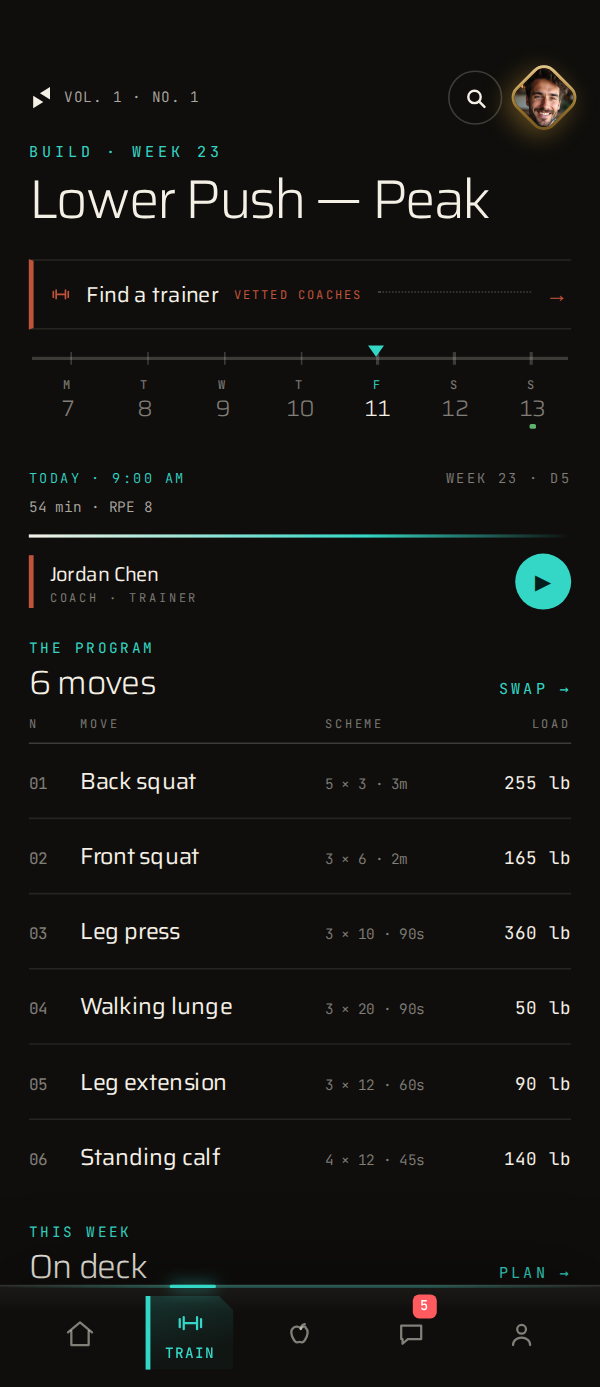
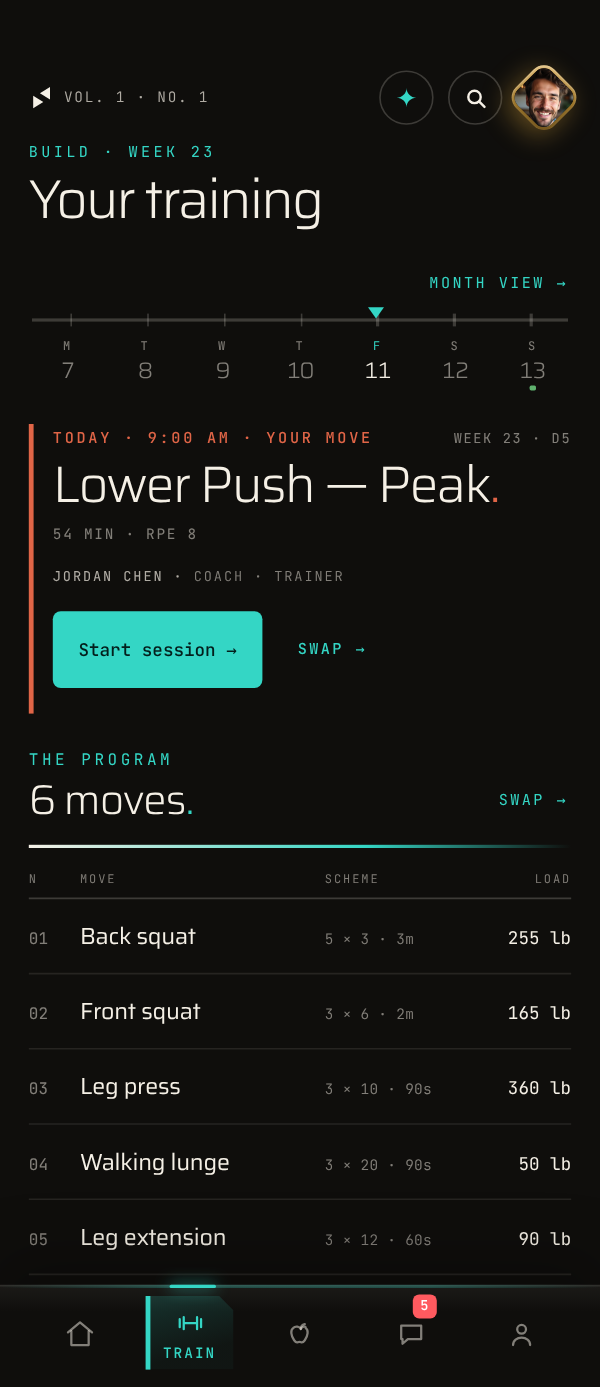
Website: the app captures re-shot after the Focus redesign
The owner: "and app snapeshots ... on website". An audit found Home, Eat, Train
and Grocery out of date after the 10-11 Focus redesign, Chat still showing the
Support segment removed on 10-08, and the profile climb's flag in the old
colour. Every capture on the homepage and Get App is re-shot from the app's
signed-out preview by the documented method: 375x867 at 1.6 (600x1387), clock
pinned to Fri 2026-09-11 09:30 New York, is-native-app.

Homepage: the four "01 · The loop" cards and the journey rail use new -v2 JPEGs
(the -v1 files are removed; nothing else references them). Each ring is
re-measured off the new capture's own elements, and tests/homepage-climb's
pixel check passes on every outline. The Eat window opens on the next-stop card
so "Lunch." is not cut. The Wall ring now takes the NEW PR chip, headline and
record together, because the avatar no longer overlaps the chip.

Get App: the ten 600x1387 captures are replaced in place with ?v=20261014. The
copy follows the screens: Home's next stop instead of the calorie slate,
Grocery's shop by aisle or meal, Train's coach and Start button, and the
Community line without Support (and without the "+3 banked" the new Habits frame
does not show).

Claude-Session: https://claude.ai/code/session_01MetSckzpWkaD8g3wB8xVRf

diff --git a/public/newdesign/GetApp.html b/public/newdesign/GetApp.html
@@ -304,11 +304,11 @@
           <div class="time">06:45</div>
           <div class="eb">WAKE &#183; HOME</div>
           <h2>Today, at a glance.</h2>
-          <p>The Shape Daily: calendar, calorie ledger, what is left to log, who is on the air. Skim it in five seconds, dive in if you want.</p>
-          <div class="num"><b>&#9632;</b> 1568 / 2100 kcal &#183; check-in due</div>
+          <p>The Shape Daily: the station, your week, the check-in and the next stop on your day. Skim it in five seconds, dive in if you want.</p>
+          <div class="num"><b>&#9632;</b> Next stop &#183; Lower Push &#8212; Peak &#183; check-in due</div>
           <span class="exlabel">Example member</span>
         </div>
-        <div class="beat-ph"><div class="ph" style="width:272px"><div class="ph-scr"><img src="/newdesign/getapp-home-v5.png?v=20260917" width="600" height="1387" alt="The app&rsquo;s Home screen: the day&rsquo;s calorie ledger against target, the week strip, the check-in due and today&rsquo;s slate" decoding="async"></div></div></div>
+        <div class="beat-ph"><div class="ph" style="width:272px"><div class="ph-scr"><img src="/newdesign/getapp-home-v5.png?v=20261014" width="600" height="1387" alt="The app&rsquo;s Home screen: Shape Radio, the week strip, the check-in due and the next stop on the day" decoding="async"></div></div></div>
       </section>
       <section class="beat" style="--sky:rgba(255,180,84,.08)">
         <div class="beat-copy">
@@ -319,7 +319,7 @@
           <div class="num"><b>&#9632;</b> 532 kcal left &#183; protein 118 / 165</div>
           <span class="exlabel">Example member</span>
         </div>
-        <div class="beat-ph"><div class="ph" style="width:272px"><div class="ph-scr"><img src="/newdesign/getapp-nutri-v3.png?v=20260910" width="600" height="1387" alt="The app&rsquo;s Eat screen: the day&rsquo;s meals with the calorie and protein ledger running against target" loading="lazy" decoding="async"></div></div></div>
+        <div class="beat-ph"><div class="ph" style="width:272px"><div class="ph-scr"><img src="/newdesign/getapp-nutri-v3.png?v=20261014" width="600" height="1387" alt="The app&rsquo;s Eat screen: the next meal with Log it and Swap, then the fuel left today by calories and macro" loading="lazy" decoding="async"></div></div></div>
       </section>
       <section class="beat" style="--sky:rgba(52,214,197,.10)">
         <div class="beat-copy">
@@ -330,7 +330,7 @@
           <div class="num"><b>&#9632;</b> 6 moves &#183; 54 min &#183; RPE 8</div>
           <span class="exlabel">Example member</span>
         </div>
-        <div class="beat-ph"><div class="ph" style="width:272px"><div class="ph-scr"><img src="/newdesign/getapp-train-v3.png?v=20260910" width="600" height="1387" alt="The app&rsquo;s Train screen: today&rsquo;s session listed move by move with sets, loads and the trainer&rsquo;s cues" loading="lazy" decoding="async"></div></div></div>
+        <div class="beat-ph"><div class="ph" style="width:272px"><div class="ph-scr"><img src="/newdesign/getapp-train-v3.png?v=20261014" width="600" height="1387" alt="The app&rsquo;s Train screen: today&rsquo;s session with its coach and a Start button, then the program move by move with sets and loads" loading="lazy" decoding="async"></div></div></div>
       </section>
       <section class="beat" style="--sky:rgba(52,214,197,.08)">
         <div class="beat-copy">
@@ -341,18 +341,18 @@
           <div class="num"><b>&#9632;</b> 245 lb &#183; new PR</div>
           <span class="exlabel">Example member</span>
         </div>
-        <div class="beat-ph"><div class="ph" style="width:272px"><div class="ph-scr"><img src="/newdesign/getapp-wall-v1.png?v=20260911b" width="600" height="1387" alt="The app&rsquo;s Wall: a personal best as a record plate, with the session&rsquo;s stats, heart-rate zones and trace beneath it" loading="lazy" decoding="async"></div></div></div>
+        <div class="beat-ph"><div class="ph" style="width:272px"><div class="ph-scr"><img src="/newdesign/getapp-wall-v1.png?v=20261014" width="600" height="1387" alt="The app&rsquo;s Wall: a personal best as a record plate, with the session&rsquo;s stats, heart-rate zones and trace beneath it" loading="lazy" decoding="async"></div></div></div>
       </section>
       <section class="beat" style="--sky:rgba(238,243,240,.05)">
         <div class="beat-copy">
           <div class="time">13:00</div>
           <div class="eb">SHOP &#183; GROCERY</div>
           <h2>A list that builds itself.</h2>
-          <p>Organized by aisle with a live running cost. Coach swaps land inline; one tap sends the whole list to Instacart.</p>
+          <p>Shop it by aisle or by meal, with a live running cost. Coach swaps land inline; one tap sends the whole list to Instacart.</p>
           <div class="num"><b>&#9632;</b> 89 items &#183; ~$44 to go</div>
           <span class="exlabel">Example member</span>
         </div>
-        <div class="beat-ph"><div class="ph" style="width:272px"><div class="ph-scr"><img src="/newdesign/getapp-grocery-v2.png?v=20260910" width="600" height="1387" alt="The app&rsquo;s grocery list, collapsed by aisle with a running cost and a send-to-Instacart action" loading="lazy" decoding="async"></div></div></div>
+        <div class="beat-ph"><div class="ph" style="width:272px"><div class="ph-scr"><img src="/newdesign/getapp-grocery-v2.png?v=20261014" width="600" height="1387" alt="The app&rsquo;s grocery list, shopped by aisle with the aisles stepped across the top, a running cost and Produce open" loading="lazy" decoding="async"></div></div></div>
       </section>
       <section class="beat" style="--sky:rgba(52,214,197,.12)">
         <div class="beat-copy">
@@ -363,7 +363,7 @@
           <div class="num"><b>&#9632;</b> Live &#183; Shape Sets &#183; Nora</div>
           <span class="exlabel">Example member</span>
         </div>
-        <div class="beat-ph"><div class="ph" style="width:272px"><div class="ph-scr"><img src="/newdesign/getapp-radio-v3.png?v=20260917" width="600" height="1387" alt="The app&rsquo;s Radio page: the Signal Field drawing the station&rsquo;s live spectrum over a field of dots" loading="lazy" decoding="async"></div></div></div>
+        <div class="beat-ph"><div class="ph" style="width:272px"><div class="ph-scr"><img src="/newdesign/getapp-radio-v3.png?v=20261014" width="600" height="1387" alt="The app&rsquo;s Radio page: the Signal Field drawing the station&rsquo;s live spectrum over a field of dots" loading="lazy" decoding="async"></div></div></div>
       </section>
       <section class="beat" style="--sky:rgba(120,110,255,.10)">
         <div class="beat-copy">
@@ -371,10 +371,10 @@
           <div class="eb">THE ROOM &#183; COMMUNITY + HABITS</div>
           <h2>The social side of strong. Small things, tracked.</h2>
           <p>See who is training right now, ask the room a question, answer someone else&rsquo;s. A members&rsquo; feed, channels for your people, and a thread straight to your coach. Tap to log a habit, earn Shape Score for every check, and see the last seven days as a grid.</p>
-          <div class="num"><b>&#9632;</b> Feed &#183; Team &#183; Channels &#183; Support &#183; +3 banked today</div>
+          <div class="num"><b>&#9632;</b> Feed &#183; Team &#183; Channels &#183; 9 pts on the table today</div>
           <span class="exlabel">Example member</span>
         </div>
-        <div class="beat-ph"><div class="ph" style="width:182px"><div class="ph-scr"><img src="/newdesign/getapp-community-v2.png?v=20260911" width="600" height="1387" alt="The app&rsquo;s Community feed: members&rsquo; posts with who is online along the top" loading="lazy" decoding="async"></div></div><div class="ph" style="width:182px"><div class="ph-scr"><img src="/newdesign/getapp-habits-v1.png?v=20260910" width="600" height="1387" alt="The app&rsquo;s Habits ledger: each habit tapped to log, with the last seven days as a grid" loading="lazy" decoding="async"></div></div></div>
+        <div class="beat-ph"><div class="ph" style="width:182px"><div class="ph-scr"><img src="/newdesign/getapp-community-v2.png?v=20261014" width="600" height="1387" alt="The app&rsquo;s Community feed: members&rsquo; posts with who is online along the top" loading="lazy" decoding="async"></div></div><div class="ph" style="width:182px"><div class="ph-scr"><img src="/newdesign/getapp-habits-v1.png?v=20261014" width="600" height="1387" alt="The app&rsquo;s Habits ledger: each habit tapped to log, with the last seven days as a grid" loading="lazy" decoding="async"></div></div></div>
       </section>
       <section class="beat" style="--sky:rgba(230,195,115,.10)">
         <div class="beat-copy">
@@ -385,7 +385,7 @@
           <div class="num"><b>&#9632;</b> 1,284 pts &#183; Tempo &#183; 43% of the way to Form</div>
           <span class="exlabel">Example member</span>
         </div>
-        <div class="beat-ph"><div class="ph" style="width:182px"><div class="ph-scr"><img src="/newdesign/getapp-score-v3.png?v=20260910" width="600" height="1387" alt="The app&rsquo;s Shape Score: the points total, the tier held and the ladder above it" loading="lazy" decoding="async"></div></div><div class="ph" style="width:182px"><div class="ph-scr"><img src="/newdesign/getapp-profile-v2.png?v=20260911" width="600" height="1387" alt="The app&rsquo;s member profile: the ascent drawn over the cover photo, with PRs and playlists below" loading="lazy" decoding="async"></div></div></div>
+        <div class="beat-ph"><div class="ph" style="width:182px"><div class="ph-scr"><img src="/newdesign/getapp-score-v3.png?v=20261014" width="600" height="1387" alt="The app&rsquo;s Shape Score: the points total, the tier held and the ladder above it" loading="lazy" decoding="async"></div></div><div class="ph" style="width:182px"><div class="ph-scr"><img src="/newdesign/getapp-profile-v2.png?v=20261014" width="600" height="1387" alt="The app&rsquo;s member profile: the ascent drawn over the cover photo, with PRs and playlists below" loading="lazy" decoding="async"></div></div></div>
       </section>
     </div>
 

diff --git a/public/newdesign/index.html b/public/newdesign/index.html
@@ -935,19 +935,19 @@
     <div class="mo-grid" id="mo-grid">
       <div class="mo on">
         <div class="eb">Eat · the menu</div><h3>The ledger ticks.</h3>
-        <div class="shot"><img src="/newdesign/home-eat-v1.jpg" width="600" height="1387" loading="lazy" decoding="async" alt="The Eat screen: the day's calories against target, macros, and today's meals" style="--y:27%"><span class="hl" style="top:19.75%;height:17%"></span></div>
+        <div class="shot"><img src="/newdesign/home-eat-v2.jpg" width="600" height="1387" loading="lazy" decoding="async" alt="The Eat screen: lunch up next with Log it and Swap, then the fuel left today, 532 kcal, and what is left of each macro" style="--y:34%"><span class="hl" style="top:50.18%;height:20.63%"></span></div>
       </div>
       <div class="mo">
         <div class="eb">Eat · the shop</div><h3>The list writes itself.</h3>
-        <div class="shot"><img src="/newdesign/home-grocery-v1.jpg" width="600" height="1387" loading="lazy" decoding="async" alt="The grocery list: this week's plan sorted by aisle with Produce open" style="--y:24.5%"><span class="hl" style="top:39%;height:19.25%"></span></div>
+        <div class="shot"><img src="/newdesign/home-grocery-v2.jpg" width="600" height="1387" loading="lazy" decoding="async" alt="The grocery list: shopped by aisle, with the aisles stepped across the top and Produce open, 24 to get" style="--y:38%"><span class="hl" style="top:37.12%;height:25.75%"></span></div>
       </div>
       <div class="mo">
         <div class="eb">Train · in the session</div><h3>A set logs.</h3>
-        <div class="shot"><img src="/newdesign/home-session-v1.jpg" width="600" height="1387" loading="lazy" decoding="async" alt="The live session player: back squat, five sets of three, the first set ticked" style="--y:15%"><span class="hl" style="top:11.75%;height:16.25%"></span></div>
+        <div class="shot"><img src="/newdesign/home-session-v2.jpg" width="600" height="1387" loading="lazy" decoding="async" alt="The live session player: back squat, five sets of three, set one up with its load and reps" style="--y:10.75%"><span class="hl" style="top:41.61%;height:16.75%"></span></div>
       </div>
       <div class="mo">
         <div class="eb">Community · the Wall</div><h3>A PR lands.</h3>
-        <div class="shot"><img src="/newdesign/home-feed-v1.jpg" width="600" height="1387" loading="lazy" decoding="async" alt="The Wall in Chat: a deadlift PR with the record stamped above the session's own stats" style="--y:28.5%"><span class="hl" style="top:37.5%;height:17.5%;left:1.25%;right:1.25%"></span></div>
+        <div class="shot"><img src="/newdesign/home-feed-v2.jpg" width="600" height="1387" loading="lazy" decoding="async" alt="The Wall in Chat: a deadlift PR with the record stamped above the session's own stats" style="--y:25.1%"><span class="hl" style="top:38.23%;height:23.5%;left:1.25%;right:1.25%"></span></div>
       </div>
     </div>
     <div style="margin-top:20px"><span class="exlabel">Example member · captured from the app's signed-out preview</span></div>
@@ -1014,7 +1014,7 @@
       <div class="jph" id="jph">
         <div class="appph">
           <span class="isl"></span>
-          <img id="jph-img" src="/newdesign/home-profile-v1.jpg" width="600" height="1387" loading="lazy" decoding="async" alt="A member's living profile: their tier, their streak, and the climb drawn across the terrain" style="--y:0%">
+          <img id="jph-img" src="/newdesign/home-profile-v2.jpg" width="600" height="1387" loading="lazy" decoding="async" alt="A member's living profile: their tier, their streak, and the climb drawn across the terrain" style="--y:0%">
         </div>
         <div class="phcap"><b id="jph-t">Your living profile</b><span id="jph-c">The tier, the streak and the climb — drawn from day one on the terrain that is yours.</span></div>
       </div>
@@ -1072,12 +1072,12 @@
       </div>
       <div>
         <!-- ⚠ DELIBERATELY NOT THE SCORE CAPTURE. The journey rail's stage 04 already
-             carries home-score-v1.jpg under the SAME headline and the SAME sentence, so
+             carries home-score-v2.jpg under the SAME headline and the SAME sentence, so
              this phone was the second of two identical Shape Score snapshots on one page
              - the reader scrolled past the same frame twice and learned nothing the
              second time. The price section is the one place someone is deciding what $5
-             buys, so it shows the screen that answers that in a single frame: the day's
-             calorie ledger, the week, the check-in due and today's slate at once.
+             buys, so it shows the screen that answers that in a single frame: the
+             station, the week, the check-in due and the next stop on the day at once.
              It is a PNG among the page's JPEG captures because that is the Home capture
              that EXISTS (600x1387, shared byte-for-byte with GetApp.html's step 1, same
              ?v= so the two share one cache entry). It is lazy-loaded and several screens
@@ -1085,9 +1085,9 @@
              Guarded by tests/homepage-climb.test.mjs. -->
         <div class="appph">
           <span class="isl"></span>
-          <img src="/newdesign/getapp-home-v5.png?v=20260917" width="600" height="1387" loading="lazy" decoding="async" alt="The app's Home screen: the day's calorie ledger against target, this week's calendar, the check-in due, and today's slate" style="--y:0%">
+          <img src="/newdesign/getapp-home-v5.png?v=20261014" width="600" height="1387" loading="lazy" decoding="async" alt="The app's Home screen: Shape Radio, this week's calendar, the check-in due, and the next stop on the day" style="--y:0%">
         </div>
-        <div class="phcap"><b>Today, at a glance</b>The Shape Daily: your calendar, the calorie ledger, what's left to log, and who's on the air.<span class="lbl-row"><span class="exlabel">Example member</span></span></div>
+        <div class="phcap"><b>Today, at a glance</b>The Shape Daily: the station, your week, the check-in and the next stop on your day.<span class="lbl-row"><span class="exlabel">Example member</span></span></div>
       </div>
     </div>
   </div>
@@ -1477,19 +1477,19 @@
      also what the MARKUP ships, so the reduced-motion and no-JS renders (which
      never reach this code) are already showing stage 1 rather than a blank frame. */
   var PH=[
-    ['/newdesign/home-profile-v1.jpg','Your living profile',
+    ['/newdesign/home-profile-v2.jpg','Your living profile',
      'The tier, the streak and the climb \u2014 drawn from day one on the terrain that is yours.',
      "A member's living profile: their tier, their streak, and the climb drawn across the terrain"],
-    ['/newdesign/home-match-v1.jpg','Find a coach',
+    ['/newdesign/home-match-v2.jpg','Find a coach',
      'Vetted trainers and RDs, browsed and messaged from inside the app before you commit.',
-     'The Eat screen carrying the find-a-nutritionist row: vetted RDs, one tap from the menu'],
-    ['/newdesign/home-session-v1.jpg','The live session',
+     'The foot of the Eat screen: your nutritionist, their note, and the find-a-nutritionist row for vetted RDs'],
+    ['/newdesign/home-session-v2.jpg','The live session',
      'The plan lands written. You log the set and the app keeps the count.',
-     'The live session player: back squat, five sets of three, the first set ticked'],
-    ['/newdesign/home-score-v1.jpg','The Shape Score',
+     'The live session player: back squat, five sets of three, set one up with its load and reps'],
+    ['/newdesign/home-score-v2.jpg','The Shape Score',
      'One number over everything you log, with the ladder it climbs.',
      'The Shape Score page: the current standing, the tier, and the ladder from Raw to Legend'],
-    ['/newdesign/home-feed-v1.jpg','The Wall',
+    ['/newdesign/home-feed-v2.jpg','The Wall',
      'Your records land where your coach and your crew can see them.',
      "The Wall in Chat: a deadlift PR with the record stamped above the session's own stats"]
   ];
